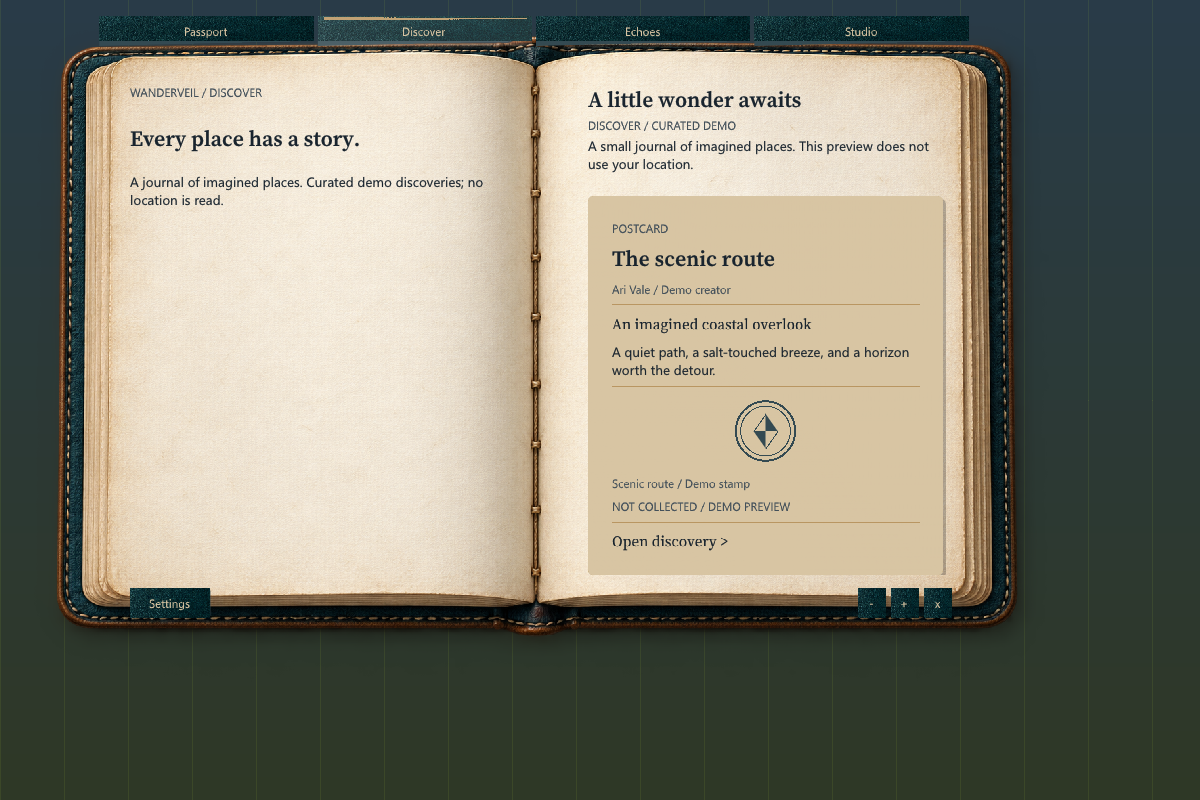
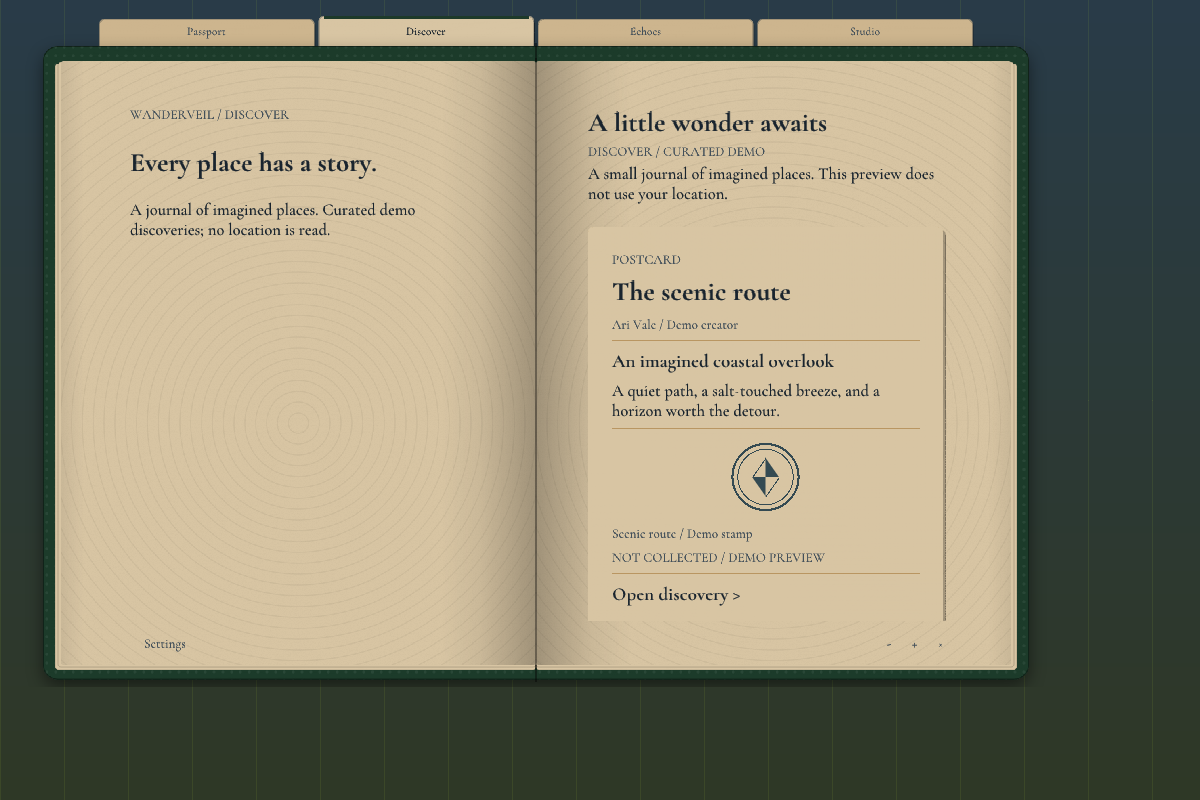
docs: describe svg passport art and book controls
Bring the client agreement, README, runtime, components, and fidelity docs up to date with the SVG art pipeline, design typefaces, book-surface controls, page scaling, and size-matched art, and refresh the shell and runtime previews.

diff --git a/docs/passport-runtime.md b/docs/passport-runtime.md
@@ -12,12 +12,13 @@ Run `/wanderveil`. Each summon starts with the closed Gridania cover anchored at
 - [Runtime nation spread](previews/passport/runtime-nation.png)
 - [Runtime identity spread](previews/passport/runtime-identity.png)
 - [Runtime collection spread](previews/passport/runtime-collection.png)
+- [Smallest book size, contents scaled down](previews/passport/runtime-smallest.png)
 
 These are native software previews of the production shell, not live game captures. Real host font/GPU/hotkey/lifecycle behavior remains unobserved here. The map retains its visible unvalidated-geography caption, and identity/signature/stamps are synthetic demo content. No collection or signature input/storage is implemented.
 
 ## Vector art (branch `feat/svg-passport-assets`)
 
-The embedded plates now come from `assets/passport/vector/`, rasterized from SVG by [tools/passport-art](../tools/passport-art/README.md) following the "Eorzea Passport" Claude Design. Canvas sizes are unchanged, so the composition code is shared; cover text and crest were re-centered for the new board, the map's cartouche label was removed, and button leather samples a plain cover band. The Release package dropped from about 10.9 MB to 2.8 MB. Gallery checks for the plum colorway still use the earlier image-generated study.
+The embedded plates now come from `assets/passport/vector/`, rasterized from SVG by [tools/passport-art](../tools/passport-art/README.md) following the "Eorzea Passport" Claude Design. Canvas sizes are unchanged, so the composition code is shared; cover text and crest were re-centered for the new board and the map's cartouche label was removed. With the design typefaces and reduced-size art copies, the Release package is about 4.6 MB (the image-generated plates made it about 10.9 MB). Gallery checks for the plum colorway still use the earlier image-generated study.
 
 Type also follows the design. Cinzel Bold is used for cover lettering. Cormorant Garamond Bold, SemiBold, and Medium are used for page titles, headings, and body or caption text. Courier Prime Regular is used for the passport number and the identity line. Text that a decorative font cannot draw falls back to the host font. Source Serif 4 is no longer shipped. The [notices](../THIRD_PARTY_NOTICES.md) list the pinned sources and licenses.
 
@@ -37,9 +38,9 @@ Each font is built at every pixel size that is actually drawn (rounded to whole 
 
 `PassportDocumentView` owns reusable live cover/page composition. `PassportPage` records supply stable IDs and presentation kinds; `BookShell` snapshots and validates a nonempty catalog with unique IDs, tracks closed/open state and reading position, and renders only visible pages. The demo provides six logical pages; catalog size is not fixed to six. Navigation clamps safely and preserves child scrolling through stable page IDs. New sessions start closed at the first page.
 
-The selected forest-green cover, banner, overhead map study, and crest are explicitly embedded from `assets/passport/studies/gridania/`, alongside the existing base book/portrait/stamp assets. Plum/intermediate studies and test/gallery sources remain excluded. [Asset provenance](../assets/passport/studies/gridania/PROVENANCE.md) and generation prompts accompany the package. No new generated artwork was needed for this slice.
+The Gridania cover, banner, map, crest, and open-book plates, plus the generic cover, portrait placeholder, and stamp atlas, are embedded from `assets/passport/vector/` with their reduced copies; see [vector asset provenance](../assets/passport/vector/PROVENANCE.md). The earlier image-generated plates and Gridania studies stay in the repository for comparison and gallery checks but are not embedded. [Their provenance](../assets/passport/studies/gridania/PROVENANCE.md) still accompanies the package.
 
-The demo signature uses bundled **Caveat**, replacing the gallery's Windows-only Segoe Script surrogate. The unmodified variable font is pinned to Google Fonts revision `5571d84c0d8c70ec1af4f64072d8c5cf1e4e9643`, renamed only from `Caveat[wght].ttf` to `Caveat.ttf`; its SIL OFL notice ships with the plugin. Three managed font handles are owned and disposed, including partial-startup/lock failures; shared texture wraps retain host ownership. Draw callbacks perform no file/network access.
+The demo signature uses bundled **Caveat**, replacing the gallery's Windows-only Segoe Script surrogate. The unmodified variable font is pinned to Google Fonts revision `5571d84c0d8c70ec1af4f64072d8c5cf1e4e9643`, renamed only from `Caveat[wght].ttf` to `Caveat.ttf`; its SIL OFL notice ships with the plugin. Six base font handles plus up to 48 per-size handles are owned and disposed, including partial-startup/lock failures; shared texture wraps retain host ownership. Draw callbacks perform no file/network access.
 
 ## Verification
 

diff --git a/docs/ui-components.md b/docs/ui-components.md
@@ -28,11 +28,11 @@ Status: implemented foundations for static Passport and Discover previews, 18 Oc
 
 `BookSurface.Illustration` fits arbitrary artwork within a reserved rectangle without changing its aspect. Production `PassportDocumentView` and the gallery reuse it for banner/crest/map art alongside portrait/stamp painters. Stable logical-page records drive the runtime catalog; see [runtime composition and controls](passport-runtime.md).
 
-The runtime book shell uses continuous leather/parchment materials at their natural aspect. Each summon starts closed; Open shows nation introduction, identity, then demo collection pages. Font size and viewport determine spread or single-page reading. Live content scrolls within bounded transparent children while materials and attached controls stay stationary. Ari Vale, signature, and stamp specimens are synthetic; nothing is authenticated, stored, uploaded, or inferred from game state. Missing artwork has readable fallbacks.
+The runtime book shell uses the SVG-generated cloth/paper plates at their natural aspect. Each summon starts closed; clicking the right side of the cover opens nation introduction, identity, then demo collection pages. Font size and viewport determine spread or single-page reading. Page contents scale with the page and shrink to fit their paper; only enlarged host text can make a page scroll. Ari Vale, signature, and stamp specimens are synthetic; nothing is authenticated, stored, uploaded, or inferred from game state. Missing artwork has readable fallbacks.
 
-Optional heading fonts are passed through `UiContext`; measure/draw select the same font and unsupported decorative glyphs fall back to the host font. Body text retains the host font. Discover accepts paper-appropriate outer text colors inside the book. See [visual targets and milestone boundaries](passport-visual-fidelity.md).
+Title, heading, body, display (cover), mono, and signature fonts are passed through `UiContext`; measure/draw select the same font and unsupported decorative glyphs fall back to the host font. An optional `IUiFonts` resolver swaps in a font built at the exact drawn pixel size, so text is never stretched. `UiTypography.DrawTracked` draws letter-spaced single-line caps. Discover accepts paper-appropriate outer text colors inside the book. See [visual targets and milestone boundaries](passport-visual-fidelity.md).
 
-The shell starts at the closed Passport and focuses Open. Open focuses its bookmark; previous/next traverse a validated logical page catalog and Cover closes the book. Directional/Space navigation retains native semantics, and identity's Explore selects Discover. Leather-backed settings/size/close controls and a simple drag grip return host intents. Settings remains separate.
+The book is its own control surface. Releasing a press on its right side opens the cover or turns forward; the left side turns back, and from the first page returns to the cover. A press that moves past the drag threshold moves the book instead and never turns. Real items keep their own clicks: `BookControl` draws paper index tabs (sections), printed ink controls on pages, and foil-stamped controls on the cover, all native buttons with keyboard focus. Space/Enter open the cover, Page Up/Down turn, Home returns to the cover, and directional/Space navigation still reaches the tabs. Identity's Explore link selects Discover. Settings remains separate.
 
 Discover presents type, title, creator, imagined location, teaser, stamp motif/name, and explicit not-collected/demo state. Cards use one native input item each; their text/stamp children are decorative, so there are no nested actions to activate twice. Width/font size determine two-column or stacked layout; each row uses the tallest measured card. Details use the same responsive rule for postcard/caption and location/reward pages. Back preserves browse scroll and opening details starts at the top with Back focused. No collect/persistence behavior is implemented.
 

diff --git a/AGENTS.md b/AGENTS.md
@@ -4,9 +4,9 @@ This agreement is self-contained. Read [docs/README.md](docs/README.md), [archit
 
 ## Current baseline and scope
 
-The selected Gridania edition is now a static runtime prototype: closed cover, explicit opening, ordered nation/identity/demo-stamp pages, and Cover return. Client and gallery share `PassportDocumentView`; selected images and the licensed Caveat signature font are embedded. See [runtime controls/reload instructions](docs/passport-runtime.md). Motion, customization, and actual collection/persistence remain later work. Do not confuse gallery-only images with installed-client behavior; the native suite verifies resources in the actual built DLL.
+The selected Gridania edition is a static runtime prototype: closed cover, ordered nation/identity/demo-stamp pages, and cover return, driven by clicks on the book's sides, drag-anywhere movement, paper index tabs, and printed/foil controls. Client and gallery share `PassportDocumentView`. Runtime art is generated from SVG by `tools/passport-art` into `assets/passport/vector/` (with reduced copies); regenerate it with `npm run build` there rather than editing PNGs. The design typefaces (Cinzel, Cormorant Garamond, Courier Prime) and Caveat are embedded with OFL notices, and text is drawn with fonts built at their exact pixel size. See [runtime controls/reload instructions](docs/passport-runtime.md). Motion, customization, and actual collection/persistence remain later work. Do not confuse gallery-only images with installed-client behavior; the native suite verifies resources in the actual built DLL.
 
-The executable project is `src/Wanderveil/Wanderveil.csproj`, referenced by `Wanderveil.slnx`. Shell/settings, shared UI, Passport identity, and Discover cards/details exist. Passport visual fidelity takes priority over Studio/Echoes. Milestone 1 adds original materials, fonts, and stationary review targets; the subsequent user-approved correction makes the book the borderless visible shell with bounded page scrolling, bookmarks, and simple movement/size controls. Read [the milestone record](docs/passport-visual-fidelity.md) before continuing. Review complete-shell previews between milestones; full identity/collection page composition, entrance/exit, and a separate 2.5D turn experiment follow in that order. CrystalRenderer needs a separate decision. Preserve existing functionality and avoid elaborate dragging/resizing.
+The executable project is `src/Wanderveil/Wanderveil.csproj`, referenced by `Wanderveil.slnx`. Shell/settings, shared UI, Passport identity, and Discover cards/details exist. Passport visual fidelity takes priority over Studio/Echoes. Milestone 1 adds original materials, fonts, and stationary review targets; the subsequent user-approved correction makes the book the borderless visible shell, and later slices made the book itself the control surface with page contents that scale instead of scroll. Read [the milestone record](docs/passport-visual-fidelity.md) before continuing. Review complete-shell previews between milestones; full identity/collection page composition, entrance/exit, and a separate 2.5D turn experiment follow in that order. CrystalRenderer needs a separate decision. Preserve existing functionality and avoid elaborate dragging/resizing.
 
 The first product loop is one curated offline discovery → one local demo stamp → passport page. Build static UI before online accounts/publication. Backend identity, networking contracts, and renderer integration remain future work. Honor current user scope rather than implementing all roadmap ideas.
 

diff --git a/docs/passport-visual-fidelity.md b/docs/passport-visual-fidelity.md
@@ -8,13 +8,17 @@ The user's subsequent cover/map/identity references establish the [passport expe
 
 ## Book shell correction
 
-Latest runtime update: the selected Gridania cover, nation introduction, identity, and demo collection are now connected to `BookShell` through the same composition used by the gallery. See [runtime controls/reload instructions and previews](passport-runtime.md). Static closed/open logical navigation is implemented; motion remains pending. The map remains explicitly unvalidated and the plum colorway remains a study rather than a color picker. Earlier shell/gallery descriptions below record their original scope.
+Current state (19 October 2026, branch `feat/svg-passport-assets`): runtime art comes from SVG via `tools/passport-art`, following the user's Eorzea Passport Claude Design, instead of the image-generated plates described below. The book is its own control surface: side clicks open, turn, and return to the cover; dragging anywhere moves it; sections are paper index tabs; Settings and size/close controls are printed in the page margin or foil-stamped on the cover. The leather bookmarks, leather-backed controls, Open/Cover/previous/next buttons, and edge drag grip described below are superseded. Page contents scale with the book rather than scrolling, and type is Cinzel, Cormorant Garamond, and Courier Prime instead of Source Serif 4. See [runtime controls](passport-runtime.md) for details.
+
+Earlier runtime update: the selected Gridania cover, nation introduction, identity, and demo collection are now connected to `BookShell` through the same composition used by the gallery. See [runtime controls/reload instructions and previews](passport-runtime.md). Static closed/open logical navigation is implemented; motion remains pending. The map remains explicitly unvalidated and the plum colorway remains a study rather than a color picker. Earlier shell/gallery descriptions below record their original scope.
 
 The initial material milestone placed a book inside the conventional Wanderveil window. The user's in-game screenshot demonstrated the missing root composition. The subsequent approved slice makes the book the visible shell: transparent borderless host, attached section bookmarks, discreet leather-backed Settings/size/close controls, and a simple outer-leather drag grip. The outer book never scrolls. Text and native actions scroll inside bounded transparent page children, leaving the binding, page edges, bookmarks, and controls stationary.
 
+The previews below were refreshed for the current branch; the paragraphs after them describe the original shell slice.
+
 - [Complete book shell](previews/passport/shell.png)
-- [Single identity page](previews/passport/shell-narrow.png)
-- [Single notes page](previews/passport/shell-notes.png)
+- [Single page (nation banner)](previews/passport/shell-narrow.png)
+- [Next single page (nation map)](previews/passport/shell-notes.png)
 - [Enlarged text](previews/passport/shell-large-text.png)
 - [Discover inside the book](previews/passport/shell-discover.png)
 

diff --git a/README.md b/README.md
@@ -21,7 +21,7 @@ dotnet run --project tests/Wanderveil.UiChecks -c Release -p:Platform=x64 --no-b
 
 Debug output: `src/Wanderveil/bin/x64/Debug/Wanderveil.dll`. Release package: `src/Wanderveil/bin/x64/Release/Wanderveil/latest.zip`. `/wanderveil` toggles the shell; `/wanderveil settings` opens appearance settings. Reduced motion saves through Dalamud configuration; this shell has no animation yet.
 
-Passport now has an original asset-backed stationary book surface, Source Serif 4 headings, and illustrated demo portrait. Cover and identity/collection compositions are [inspectable visual targets](docs/passport-visual-fidelity.md); full page composition/routing and motion follow after review. This visual-fidelity milestone precedes Studio/Echoes. Native window chrome remains while the core book is established.
+Passport is a borderless physical book: a Gridania cover and nation/identity/demo-stamp pages whose art is generated from SVG by [tools/passport-art](tools/passport-art/README.md), with Cinzel, Cormorant Garamond, and Courier Prime type. Click its sides to open and turn pages, and drag it from anywhere; see [runtime controls](docs/passport-runtime.md). Motion follows after visual review, and this visual-fidelity work precedes Studio/Echoes.
 
 Native ImGui checks cover responsive geometry, contrast, text reservation, mouse/keyboard navigation, disabled collection, scroll restoration, style cleanup, textured/fallback book layouts, and heading-font fallback. Optional software previews are written under ignored `artifacts/ui/`. These checks run outside FFXIV; live host/fonts/GPU behavior and hosted CI execution are not claimed. Completed slices are committed after appropriate automated verification without requiring routine user in-game testing.
 
